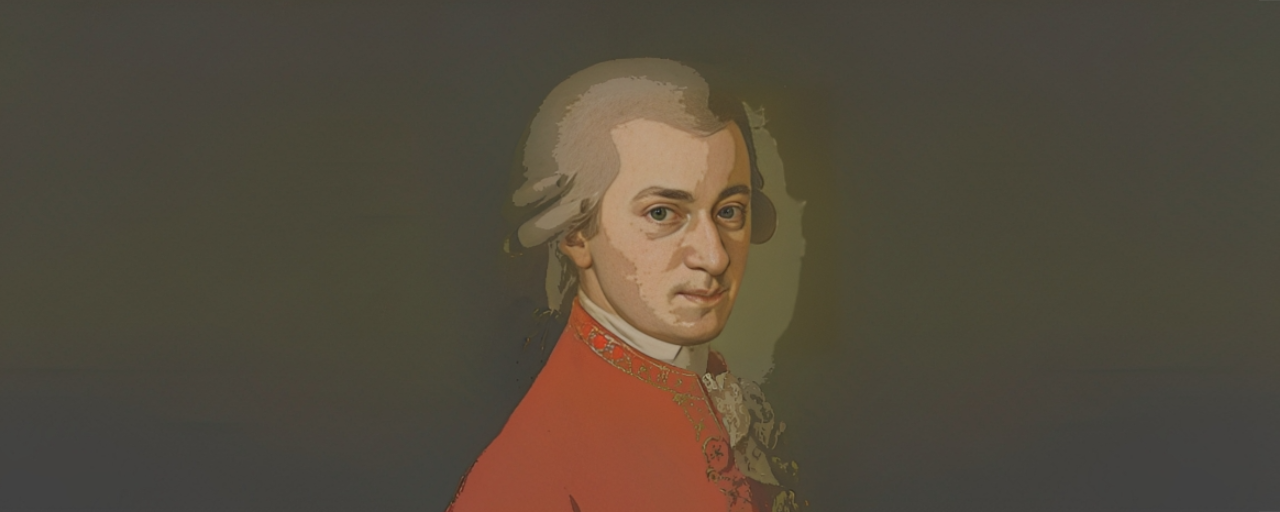
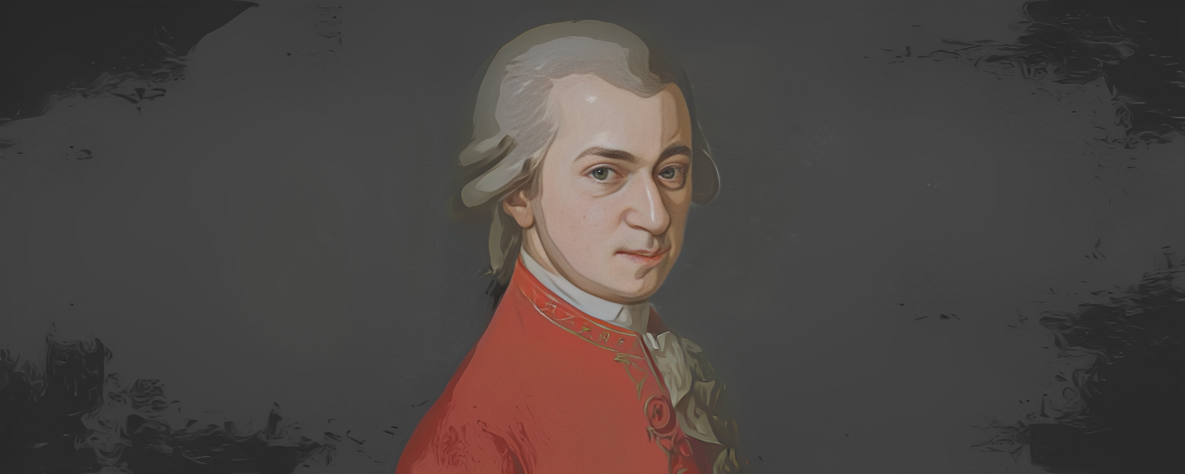
Added mozart's turn

diff --git a/src/utils/scores.ts b/src/utils/scores.ts
@@ -30,22 +30,28 @@ const bach: Score[] = [
 
 const beethoven: Score[] = [
 	{
-		name: 'Bagatelle in A Minor, WoO 59: Für Elise',
+		name: 'Symphony No. 5 in C Minor, Op. 67: I. Allegro con brio',
+		composer: 'Ludwig van Beethoven (1770-1827)',
+		url: 'scores/Ludwig van Beethoven/Beethoven_Symphony_No._5_1st_movement_Piano_solo.mid',
+		musescoreUrl: 'https://musescore.com/hmscomp/scores/128179',
+	},
+	{
+		name: 'Bagatelle in A Minor, WoO 59 "Für Elise"',
 		composer: 'Ludwig van Beethoven (1770-1827)',
 		url: 'scores/Ludwig van Beethoven/FurElise.mid',
 		musescoreUrl: 'https://musescore.com/user/19710/scores/33816',
-	},
-	{
-		name: 'Piano Sonata No. 14 in C-Sharp Minor, Op. 27, No. 2 "Moonlight": I. Adagio ',
-		composer: 'Ludwig van Beethoven (1770-1827)',
-		url: 'scores/Ludwig van Beethoven/MoonlightSonata1stMovement.mid',
-		musescoreUrl: 'https://musescore.com/classicman/scores/55352',
 	},
 	{
 		name: 'Piano Sonata No. 14 in C-Sharp Minor, Op. 27, No. 2 "Moonlight": III. Presto agitato',
 		composer: 'Ludwig van Beethoven (1770-1827)',
 		url: 'scores/Ludwig van Beethoven/MoonlightSonata3rdMovement.mid',
 		musescoreUrl: 'https://musescore.com/classicman/scores/33715',
+	},
+	{
+		name: 'Piano Sonata No. 14 in C-Sharp Minor, Op. 27, No. 2 "Moonlight": I. Adagio ',
+		composer: 'Ludwig van Beethoven (1770-1827)',
+		url: 'scores/Ludwig van Beethoven/MoonlightSonata1stMovement.mid',
+		musescoreUrl: 'https://musescore.com/classicman/scores/55352',
 	},
 ];
 
@@ -302,8 +308,8 @@ export const scores: Score[] = [
 	// ...chopin,
 	// ...czerny,
 	// ...debussy,
-	...liszt,
-	// ...mozart,
+	// ...liszt,
+	...mozart,
 	// ...offenbach,
 	// ...rachmaninoff,
 	// ...satie,

diff --git a/src/stores/playerStates/utils.ts b/src/stores/playerStates/utils.ts
@@ -45,17 +45,16 @@ export const getMidi = async () => {
 	const midi = await Midi.fromUrl(score.url);
 	return midi;
 };
-export const playTrack = async (track: Track, index: number) => {
+export const playTrack = async (track: Track) => {
 	const speed = get(isAudioOnly) ? 1000 : 1000 / get(playerStates.speed);
 	const delay = get(isAudioOnly) ? 1000 : get(playerStates.delay);
+	const releaseTime = get(playerStates.releaseTime);
 	const piano = get(pianoStates.piano);
 	isChanging.set(true);
 	await sleep(delay);
 	isChanging.set(false);
 	track.notes.map((note) => {
 		const timeout = setTimeout(() => {
-			const isPlaying = get(playerStates.isPlaying);
-			if (!isPlaying) return;
 			const name = note.name.replace('#', 'S') as Note;
 			if (name in noteList) {
 				noteList[name].velocity.set(note.velocity);
@@ -63,12 +62,12 @@ export const playTrack = async (track: Track, index: number) => {
 				setTimeout(() => {
 					noteList[name].velocity.set(1);
 					noteList[name].isPressing.set(false);
-				}, note.duration * speed - 25);
+				}, note.duration * speed - 50);
 			} else {
 				piano.triggerAttack(note.name, undefined, note.velocity);
 				setTimeout(
-					() => piano.triggerRelease(note.name, '+' + get(releaseTime)),
-					note.duration * speed,
+					() => piano.triggerRelease(note.name, '+' + releaseTime),
+					note.duration * speed - 50,
 				);
 			}
 		}, note.time * speed);

diff --git a/src/routes/+page.svelte b/src/routes/+page.svelte
@@ -82,15 +82,15 @@
 <style lang="scss">
 	:root {
 		// VARIABLES
-		$composer: 'liszt';
+		$composer: 'mozart';
 		// DEFAULT
-		--speed: 4;
+		--speed: 1;
 		--bg-position: center;
 		--bg-position-x: -20px;
 		--bg-position-y: 0px;
 		--bg-size: 1320px;
 		--bg-image: url('$assets/images/#{$composer}.png');
-		--bar-bg-image: url('$assets/textures/1.png');
+		--bar-bg-image: var(--bg-image);
 		--bar-bg-size: none;
 		--bar-bg-position-x: left;
 		--bar-bg-position-y: top;
@@ -99,7 +99,6 @@
 		@if $composer == 'bach' {
 			--bar-filter: brightness(2) contrast(2.5) grayscale(100%);
 		} @else if $composer == 'beethoven' {
-			--bar-bg-image: var(--bg-image);
 			--bar-filter: brightness(1.5) contrast(2) saturate(1.25) hue-rotate(45deg);
 		} @else if $composer == 'chopin' {
 			--bar-bg-image: url('$assets/textures/2.png');
@@ -111,9 +110,9 @@
 		} @else if $composer == 'liszt' {
 			--bar-bg-image: url('$assets/textures/3.png');
 			--bar-filter: brightness(1.5) saturate(2) hue-rotate(30deg);
-			// --bar-filter: brightness(1.5) contrast(2) hue-rotate(150deg);
-		} @else if $composer == 'rachmaninoff' {
-			--bar-filter: brightness(1.5) contrast(2) hue-rotate(0deg);
+		} @else if $composer == 'mozart' {
+			--bar-bg-image: url('$assets/textures/1.png');
+			--bar-filter: brightness(1.5) contrast(2);
 		}
 	}
 	.page {

diff --git a/src/stores/playerStates/states.ts b/src/stores/playerStates/states.ts
@@ -25,6 +25,7 @@ export const timeouts = writable<NodeJS.Timeout[]>([]);
 export const playerStates = {
 	name,
 	composer,
+	releaseTime,
 	speed,
 	delay,
 	duration,
